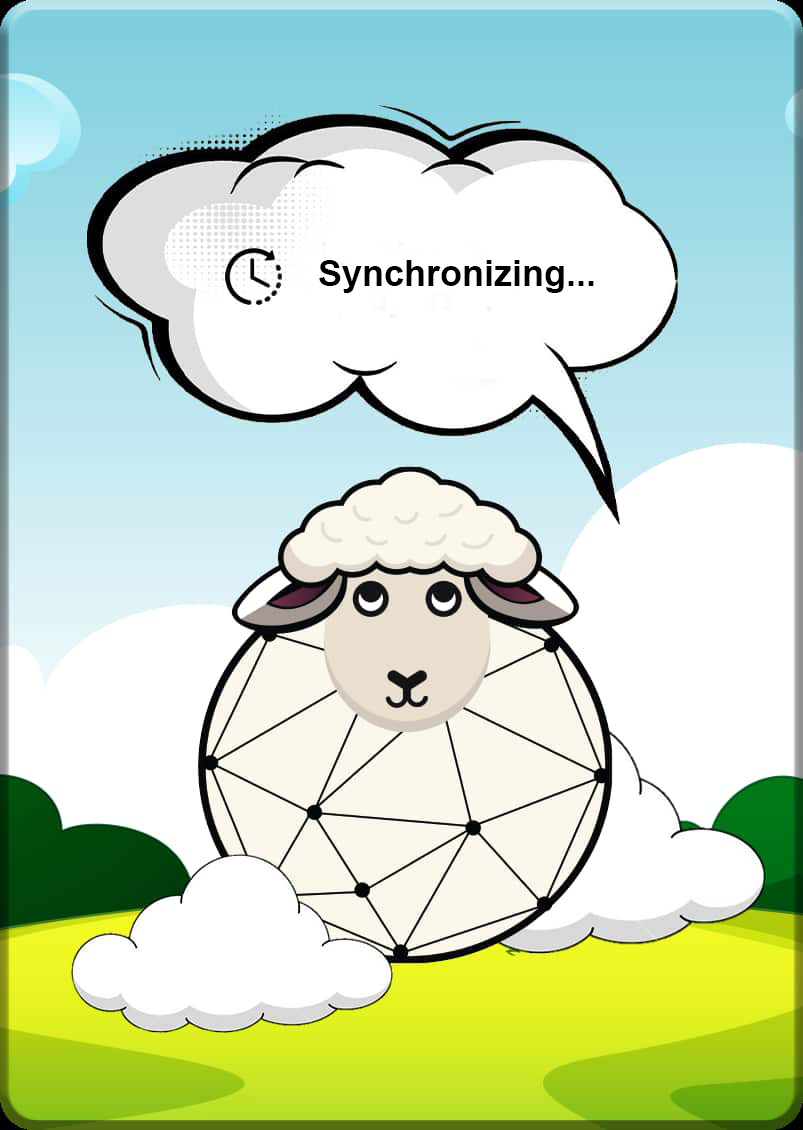
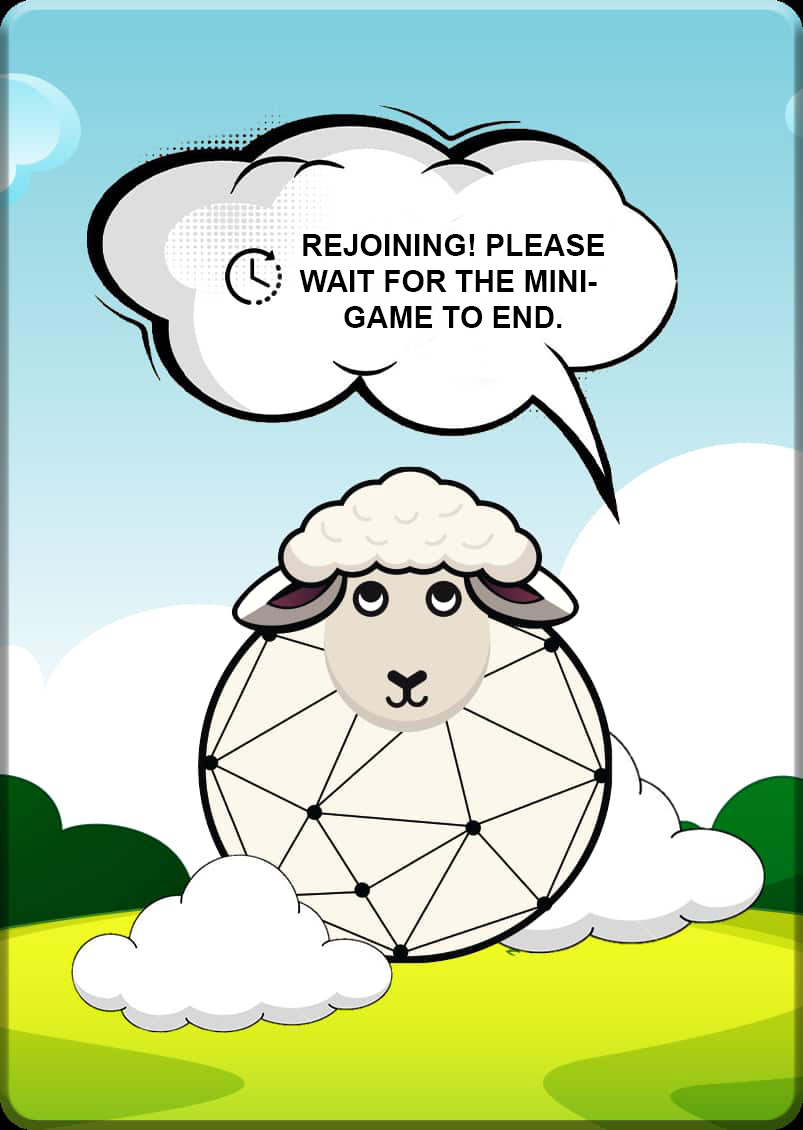
rabbithole bugfix when player was lost and remains 1 in game with other inactive (leaved) and not eliminated players

Changed region(s): [[0.3736, 0.1858, 0.7472, 0.3097]]

diff --git a/packages/frontend/src/screens/bullrun/Rules/components/rule-3/index.tsx b/packages/frontend/src/screens/bullrun/Rules/components/rule-3/index.tsx
@@ -1,34 +1,10 @@
-import Swords from "../../../assets/fight.png";
-import Shield from "../../../assets/defence.png";
-import Run from "../../../assets/run.png";
+import RulesGridGif from "../../../assets/grid2.gif";
 
 export default function BRule3() {
     return (
-        <div className="flex flex-col gap-1 h-fit rounded-2xl items-center justify-center">
-            <div className="bg-white bg-opacity-90 flex flex-row rounded-xl shadow-xl">
-                <div className="rounded-xl h-fit p-1">
-                    <img src={Swords} alt="swords" className="w-5 h-5"/>
-                    <p className="w-full text-center text-green-600">+1</p>
-                </div>
-                <div className="rounded-xl h-fit p-1">
-                    <img src={Shield} alt="shield" className="w-5 h-5"/>
-                    <p className="w-full text-center">0</p>
-                </div>
-                <div className="rounded-xl h-fit p-1">
-                    <img src={Run} alt="run" className="w-5 h-5"/>
-                    <p className="w-full text-center text-red-600">-1</p>
-                </div>
-            </div>
-            <div className="w-full flex flex-row gap-3">
-                <div className="bg-white bg-opacity-90 rounded-xl h-fit p-2 shadow-xl">
-                    <img src={Swords} alt="swords" className="w-16 h-16"/>
-                </div>
-                <div className="bg-white bg-opacity-90 rounded-xl h-fit p-2 shadow-xl">
-                    <img src={Shield} alt="shield" className="w-16 h-16"/>
-                </div>
-                <div className="bg-white bg-opacity-90 rounded-xl h-fit p-2 shadow-xl">
-                    <img src={Run} alt="run" className="w-16 h-16"/>
-                </div>
+        <div className="flex h-64 w-64 min-w-full rounded-2xl border-[5px] shadow-xl">
+            <div className="w-full bg-[#ece0c8] flex flex-row bg-opacity-90">
+                <img src={RulesGridGif} alt="gameplay" className="rounded-2xl w-full h-full object-cover"/>
             </div>
         </div>
     );

diff --git a/packages/frontend/src/screens/basic/Home/components/race-animation/index.jsx b/packages/frontend/src/screens/basic/Home/components/race-animation/index.jsx
@@ -13,6 +13,7 @@ const UniqueRaceAnimation = (props) => {
     const [textAnimationComplete, setTextAnimationComplete] = useState(false);
     const [showFinalElements, setShowFinalElements] = useState(false);
     const [showButton, setShowButton] = useState(false);
+    const [isClicked, setIsClicked] = useState(false);
 
     useEffect(() => {
         // Show text immediately
@@ -75,8 +76,16 @@ const UniqueRaceAnimation = (props) => {
             <img
               src={PlayImage}
               alt="Play Button"
-              className="play-button bg-transparent"
-              onClick={handleClick}
+              className={`play-button bg-transparent transition-all duration-300`}
+              style={{ 
+                opacity: isClicked ? 0.5 : 1,
+                bottom:  isClicked ? '-25%' : '5%'
+              }}
+              onClick={() => {
+                  setIsClicked(true);
+                  handleClick();
+              }}
+              onAnimationEnd={() => setIsClicked(false)}
             />
           )}
         </>

diff --git a/packages/frontend/src/screens/basic/Home/assets/css/index.css b/packages/frontend/src/screens/basic/Home/assets/css/index.css
@@ -125,6 +125,8 @@
     animation:
       button-grow 2s forwards 3.5s,
       pulse 1.2s infinite 4.5s;
+
+    transition: transform 0.2s;
   }
   
   @keyframes button-grow {
@@ -203,4 +205,18 @@
 /* highlight style */
 .highlight {
   color: rgba(255, 255, 0, 0.7);;
+}
+
+.hover-effect {
+  transform: scale(1.1); /* Scale up on hover */
+}
+
+.clicked-effect {
+  transform: scale(0.9); /* Scale down on click */
+  animation: click-animation 0.1s forwards; /* Optional animation */
+}
+
+@keyframes click-animation {
+  0% { transform: scale(1); }
+  100% { transform: scale(0.9); }
 }

diff --git a/packages/frontend/src/screens/rabbit-hole/Game/index.tsx b/packages/frontend/src/screens/rabbit-hole/Game/index.tsx
@@ -641,6 +641,14 @@ function RabbitHoleGame() {
       });
       socket.emit("get-all-fuel-tunnel", { raceId });
       setPhase("OpenTunnel");
+
+      // if user is one in race and eliminated, go on with animations without waiting for other (leaved) players
+      if (amountOfConnected <= 1 && userIsLost) {
+        console.log('user is one in race and eliminated, go on with animations without waiting for other (leaved) players');
+        setTimeout(() => {
+          triggerAnimationsOpen();
+        }, 3500);
+      }
     }, 3000);
   };
 

diff --git a/packages/frontend/src/screens/basic/SelectRace/index.tsx b/packages/frontend/src/screens/basic/SelectRace/index.tsx
@@ -44,13 +44,13 @@ function SelectRaceScreen() {
     localStorage.setItem("races", JSON.stringify(Array.from(new Set([...currentUserActiveGames, raceId]))));
 
     
-    /*
+    
       getRaceById(rIdNumber, smartAccountAddress as `0x${string}`).then(data => {
         updateGameState(data, progress, undefined);
-        navigate(`/race/${raceId}/stats`);
+        navigate(`/race/${raceId}/rabbit-hole/v1/rules`);
       });
       return;
-    */
+    
 
     
     getRaceById(rIdNumber, smartAccountAddress as `0x${string}`).then(data => {
